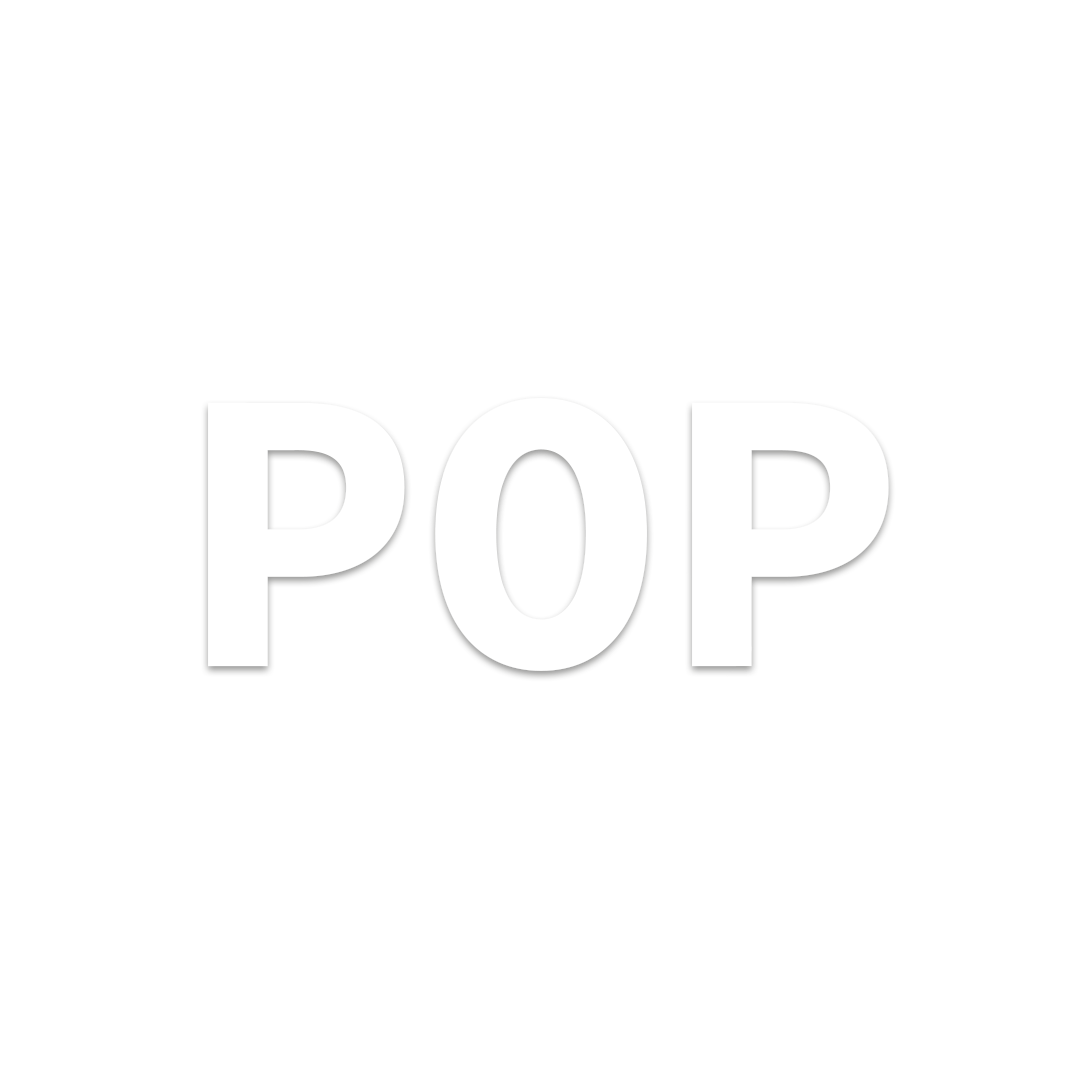
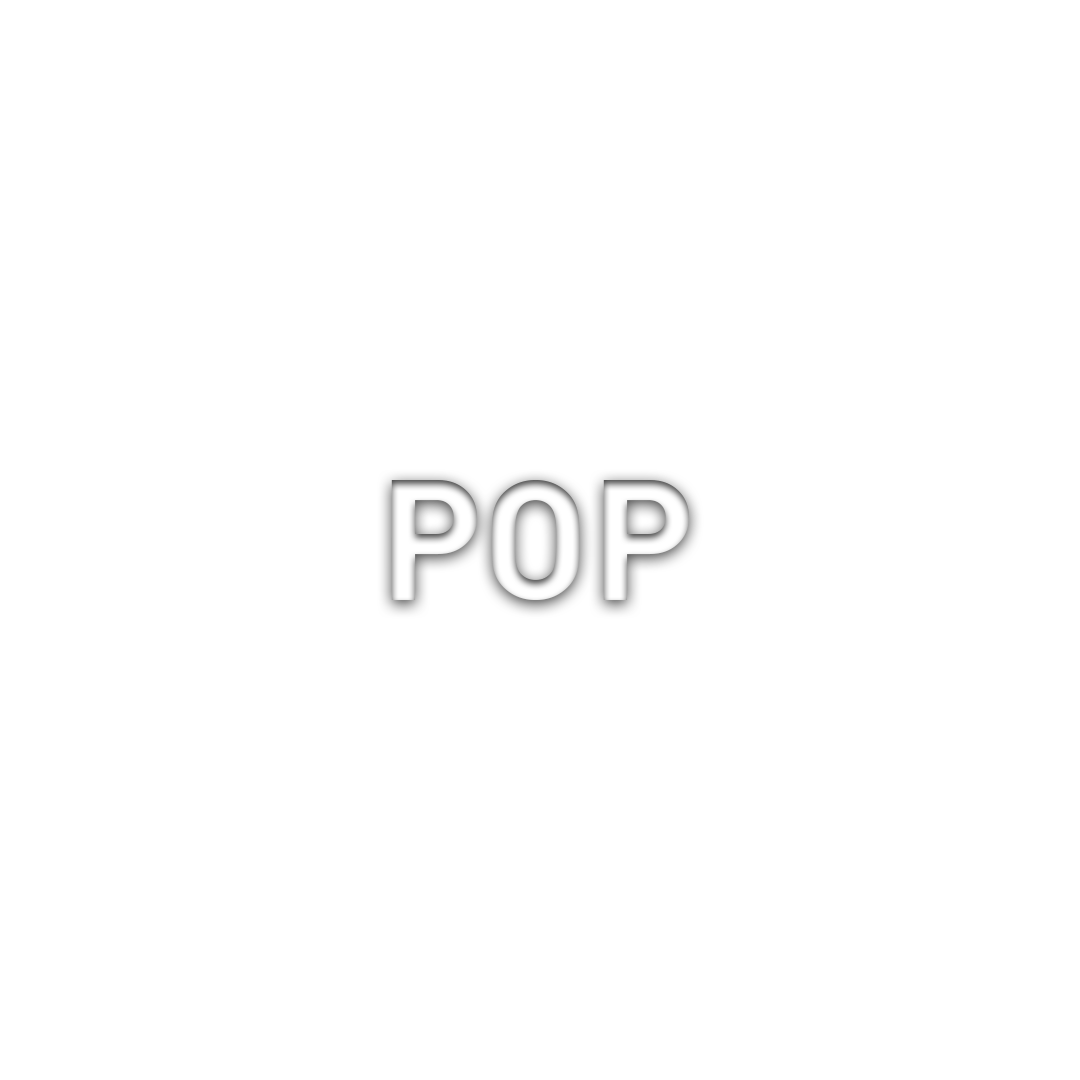
Ikoner till karusellerna

diff --git a/css/carousel.css b/css/carousel.css
@@ -46,79 +46,110 @@
 }
 
 /* Style of each carousel list */
-#waveform>ul>:nth-child(2) {
-  background-image: url("../images/triangle.png");
+#waveform>ul>:nth-child(1) {
+  background-image: url("../images/tri.png"); 
   background-repeat: no-repeat;
-  background-size: 100%;
+  background-size: 95%;
+  background-position: center;
+}
+
+#waveform>ul>:nth-child(2) {
+  background-image: url("../images/saw.png");
+  background-repeat: no-repeat;
+  background-size: 95%;
   background-position: center;
 }
 
 #waveform>ul>:nth-child(3) {
-  background-image: url("../images/sinus.png");
+  background-image: url("../images/sin.png");
   background-repeat: no-repeat;
-  background-size: 100%;
+  background-size: 95%;
   background-position: center;
 }
 
 #waveform>ul>:nth-child(4) {
   background-image: url("../images/square.png");
   background-repeat: no-repeat;
-  background-size: 100%;
+  background-size: 95%;
+  background-position: center;
+}
+
+#waveform>ul>:nth-child(5) {
+  background-image: url("../images/brus.png");
+  background-repeat: no-repeat;
+  background-size: 95%;
+  background-position: center;
+}
+
+/*GENRE*/
+#genre>ul>:nth-child(1) {
+  background-image: url("../images/jazz.png");
+  background-repeat: no-repeat;
+  background-size: 95%;
   background-position: center;
 }
 
 #genre>ul>:nth-child(2) {
   background-image: url("../images/pop.png");
   background-repeat: no-repeat;
-  background-size: 100%;
-  background-position: center;
-}
-
-#genre>ul>:nth-child(1) {
-  background-image: url("../images/saxophone.png");
-  background-repeat: no-repeat;
-  background-size: 70%;
+  background-size: 95%;
   background-position: center;
 }
 
 #genre>ul>:nth-child(3) {
-  background-image: url("../images/akust.png");
+  background-image: url("../images/off.png");
   background-repeat: no-repeat;
-  background-size: 100%;
+  background-size: 95%;
   background-position: center;
 }
 
 #genre>ul>:nth-child(4) {
-  background-image: url("../images/klassisk.png");
+  background-image: url("../images/hiphop.png");
   background-repeat: no-repeat;
-  background-size: 70%;
+  background-size: 95%;
   background-position: center;
 }
 
 #genre>ul>:nth-child(5) {
-  background-image: url("../images/drum.png");
+  background-image: url("../images/klassiskt.png");
   background-repeat: no-repeat;
-  background-size: 70%;
+  background-size: 95%;
+  background-position: center;
+}
+
+/*FILTER*/
+#filter>ul>:nth-child(1) {
+  background-image: url("../images/highpass.png");
+  background-repeat: no-repeat;
+  background-size: 95%;
   background-position: center;
 }
 
 #filter>ul>:nth-child(2) {
-  background-image: url("../images/brus.png");
+  background-image: url("../images/lowpass.png");
   background-repeat: no-repeat;
-  background-size: 100%;
+  background-size: 95%;
   background-position: center;
 }
 
 #filter>ul>:nth-child(3) {
   background-image: url("../images/off.png");
   background-repeat: no-repeat;
-  background-size: 100%;
+  background-size: 95%;
   background-position: center;
 }
+
 #filter>ul>:nth-child(4) {
-  background-image: url("../images/brus.png");
+  background-image: url("../images/reject.png");
   background-repeat: no-repeat;
-  background-size: 100%;
+  background-size: 95%;
+  background-position: center;
+}
+
+#filter>ul>:nth-child(5) {
+  background-image: url("../images/bandpass.png");
+  background-repeat: no-repeat;
+  background-size: 95%;
   background-position: center;
 }
 
